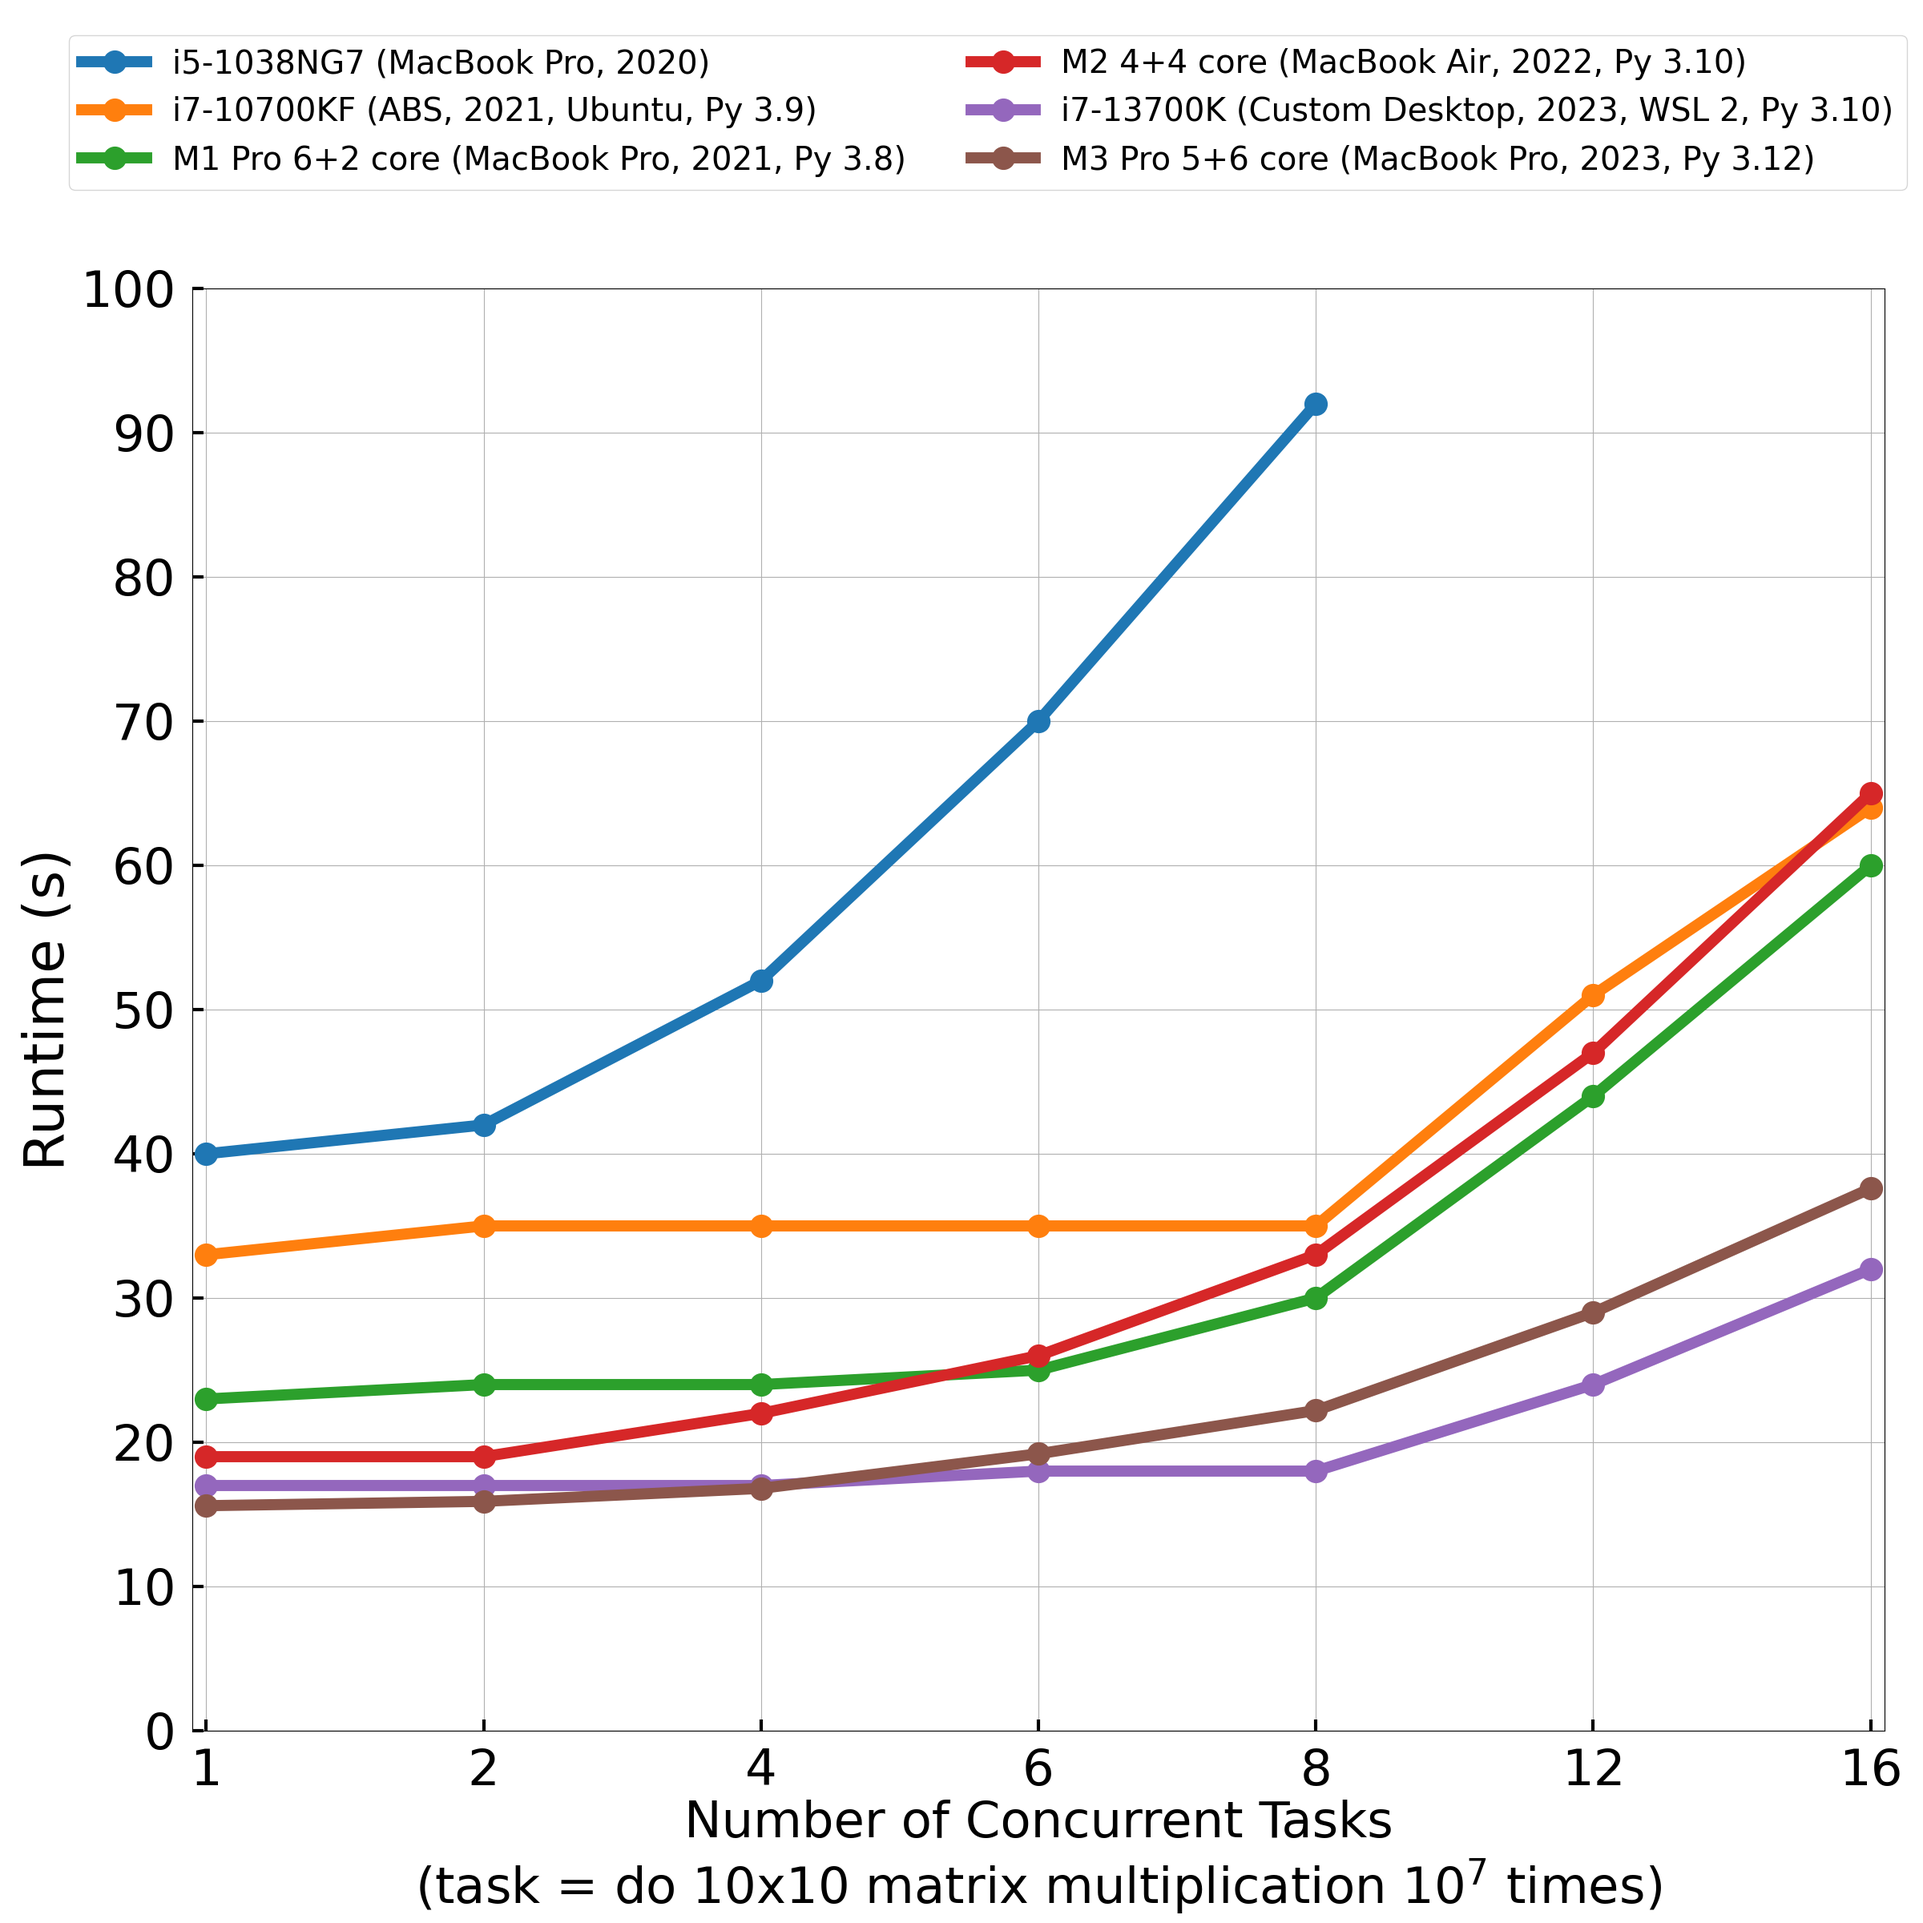
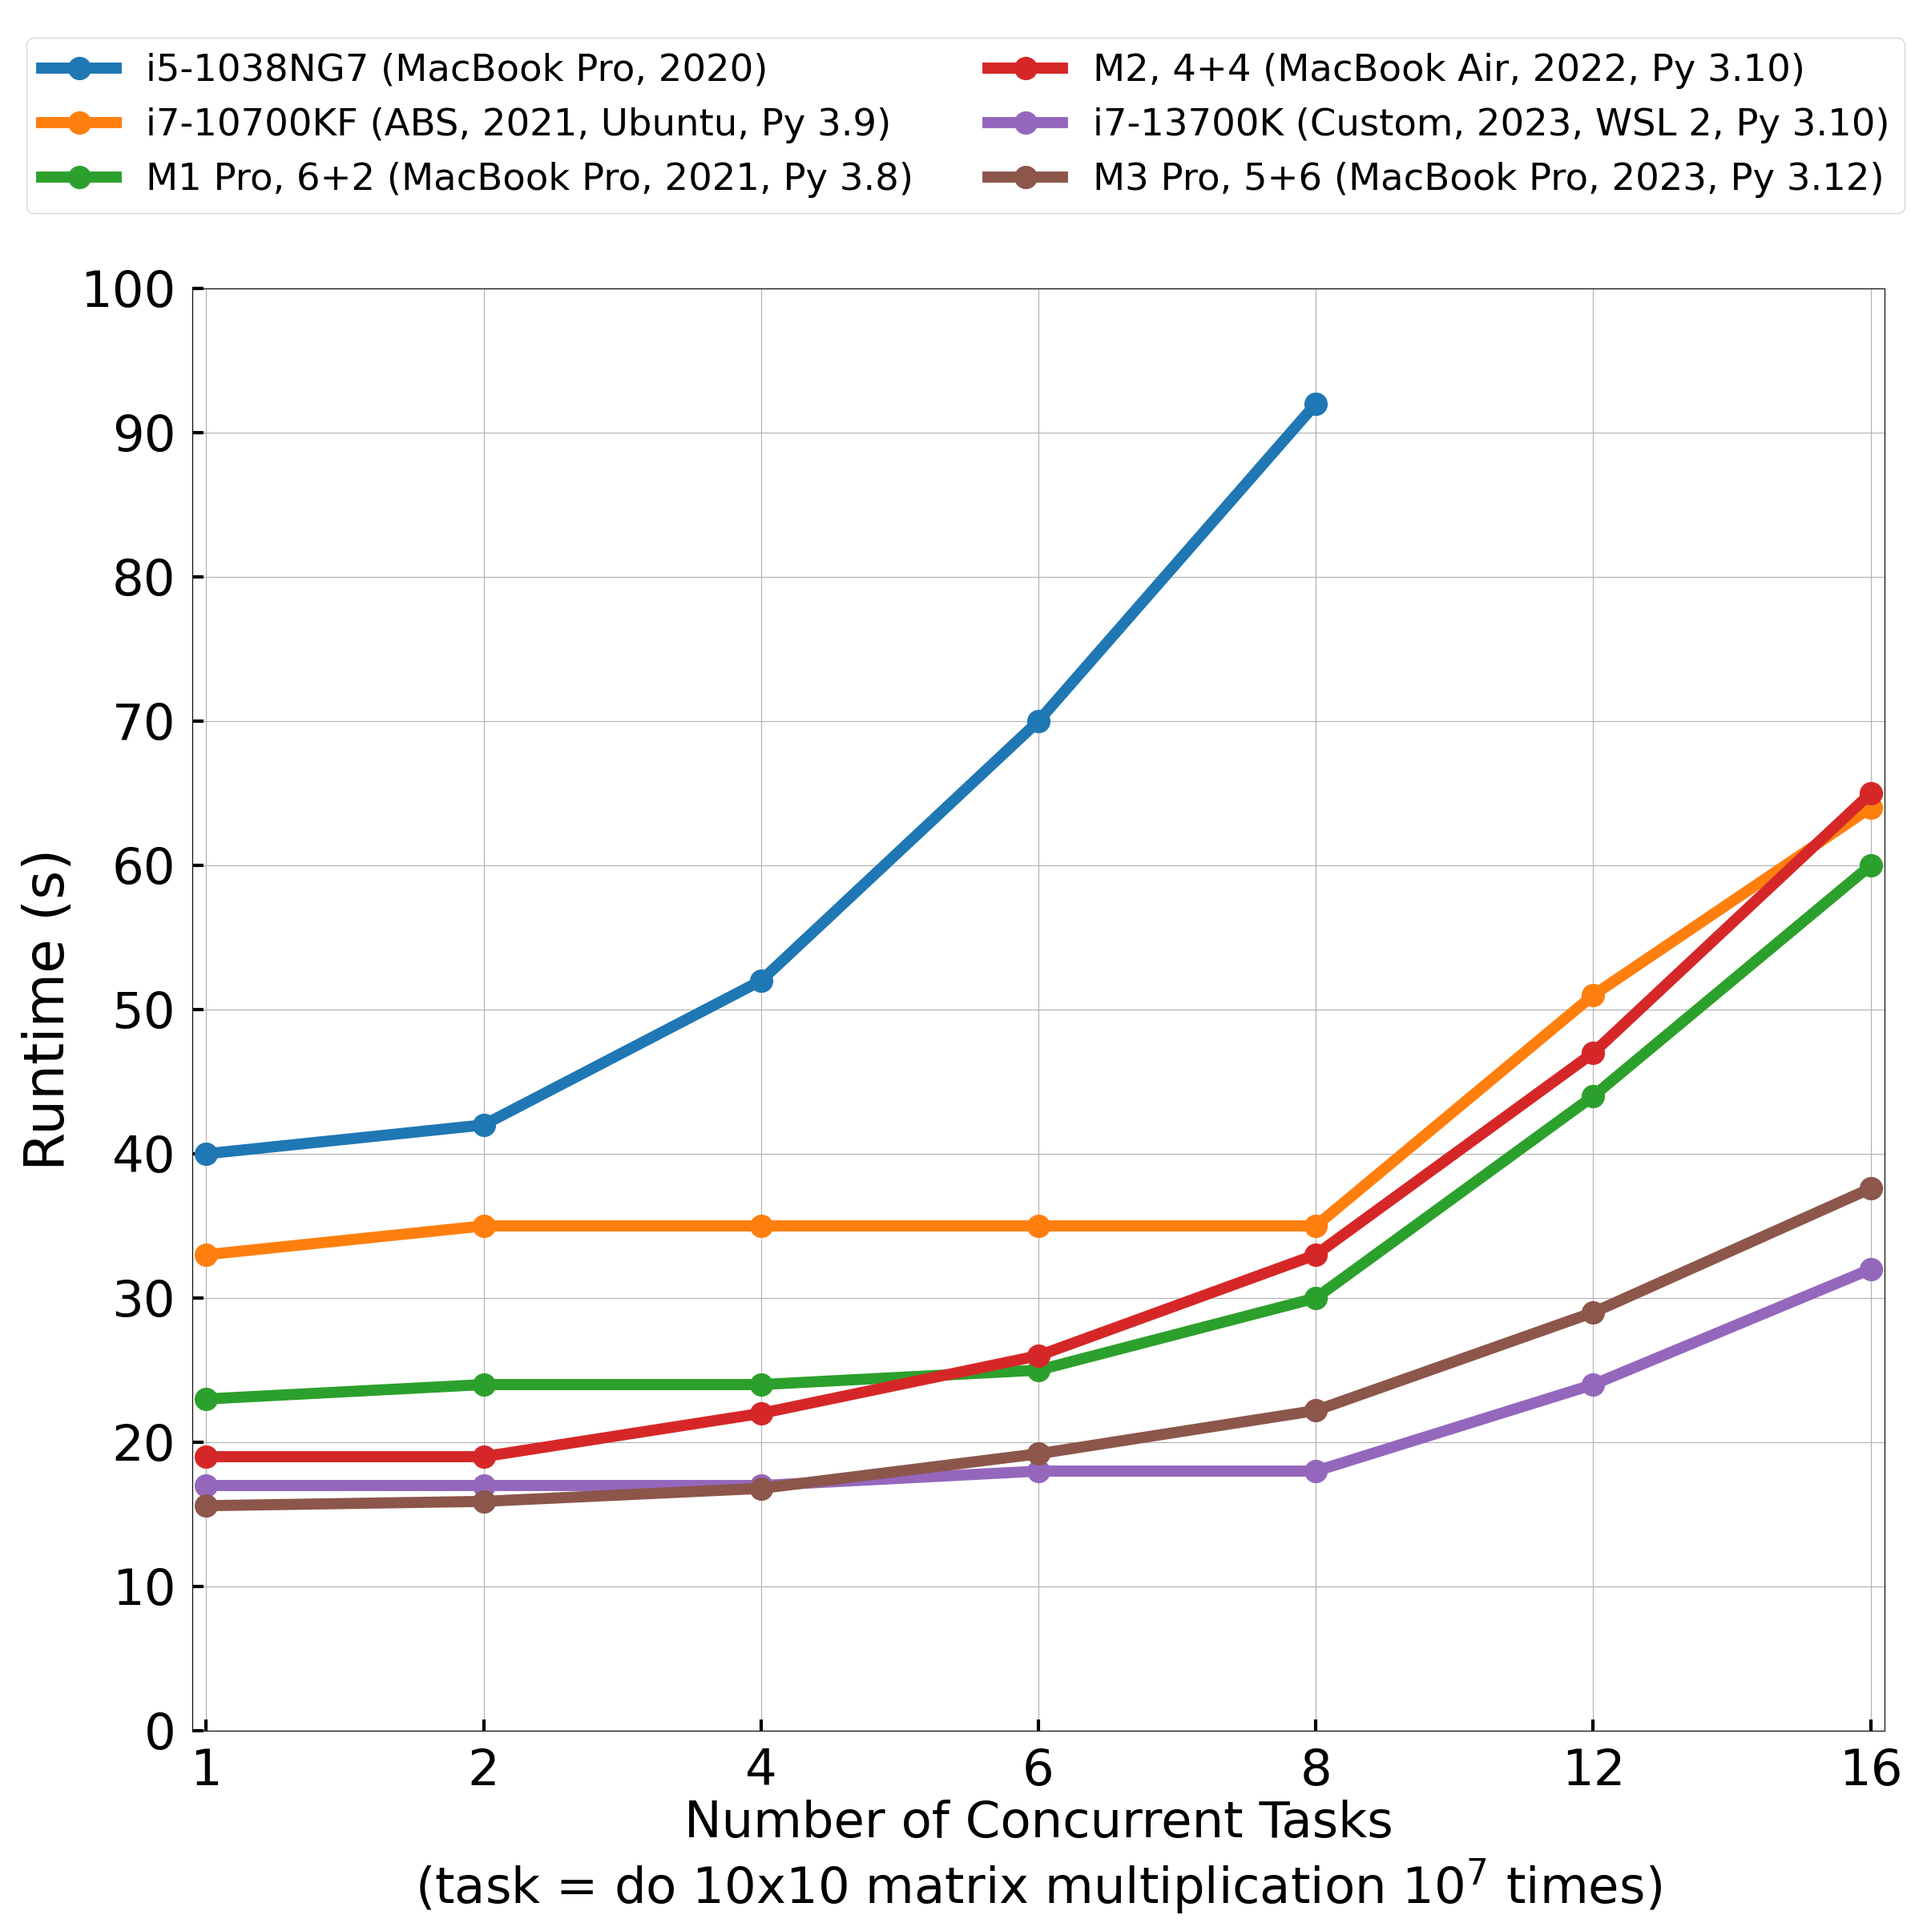
update plot

Changed region(s): [[0.5, 0.0, 1.0, 0.0938], [0.0, 0.0, 0.4688, 0.0938]]

diff --git a/plot.py b/plot.py
@@ -18,11 +18,11 @@ def plot():
     # ax.plot(np.arange(len(y2)), y2, marker='o', markersize=20, label='i7-1065G7 (Microsoft Surface 3 2020)')
     ax.plot(np.arange(len(y1)), y1, marker='o', markersize=20, label='i5-1038NG7 (MacBook Pro, 2020)')
     ax.plot(np.arange(len(y3)), y3, marker='o', markersize=20, label='i7-10700KF (ABS, 2021, Ubuntu, Py 3.9)')
-    ax.plot(np.arange(len(y4)), y4, marker='o', markersize=20, label='M1 Pro 6+2 core (MacBook Pro, 2021, Py 3.8)')
-    ax.plot(np.arange(len(y5)), y5, marker='o', markersize=20, label='M2 4+4 core (MacBook Air, 2022, Py 3.10)')
-    ax.plot(np.arange(len(y6)), y6, marker='o', markersize=20, label='i7-13700K (Custom Desktop, 2023, WSL 2, Py 3.10)')
-    ax.plot(np.arange(len(y7)), y7, marker='o', markersize=20, label='M3 Pro 5+6 core (MacBook Pro, 2023, Py 3.12)')
-    fig.legend(ncol=2, fontsize=29, bbox_to_anchor=(1, 0.99))
+    ax.plot(np.arange(len(y4)), y4, marker='o', markersize=20, label='M1 Pro, 6+2 (MacBook Pro, 2021, Py 3.8)')
+    ax.plot(np.arange(len(y5)), y5, marker='o', markersize=20, label='M2, 4+4 (MacBook Air, 2022, Py 3.10)')
+    ax.plot(np.arange(len(y6)), y6, marker='o', markersize=20, label='i7-13700K (Custom, 2023, WSL 2, Py 3.10)')
+    ax.plot(np.arange(len(y7)), y7, marker='o', markersize=20, label='M3 Pro, 5+6 (MacBook Pro, 2023, Py 3.12)')
+    fig.legend(ncol=2, fontsize=33.5, bbox_to_anchor=(1, 0.99))
     ax.grid()
     ax.set_xlim([-0.05, 6.05])
     ax.set_xticks(np.arange(len(X)))
